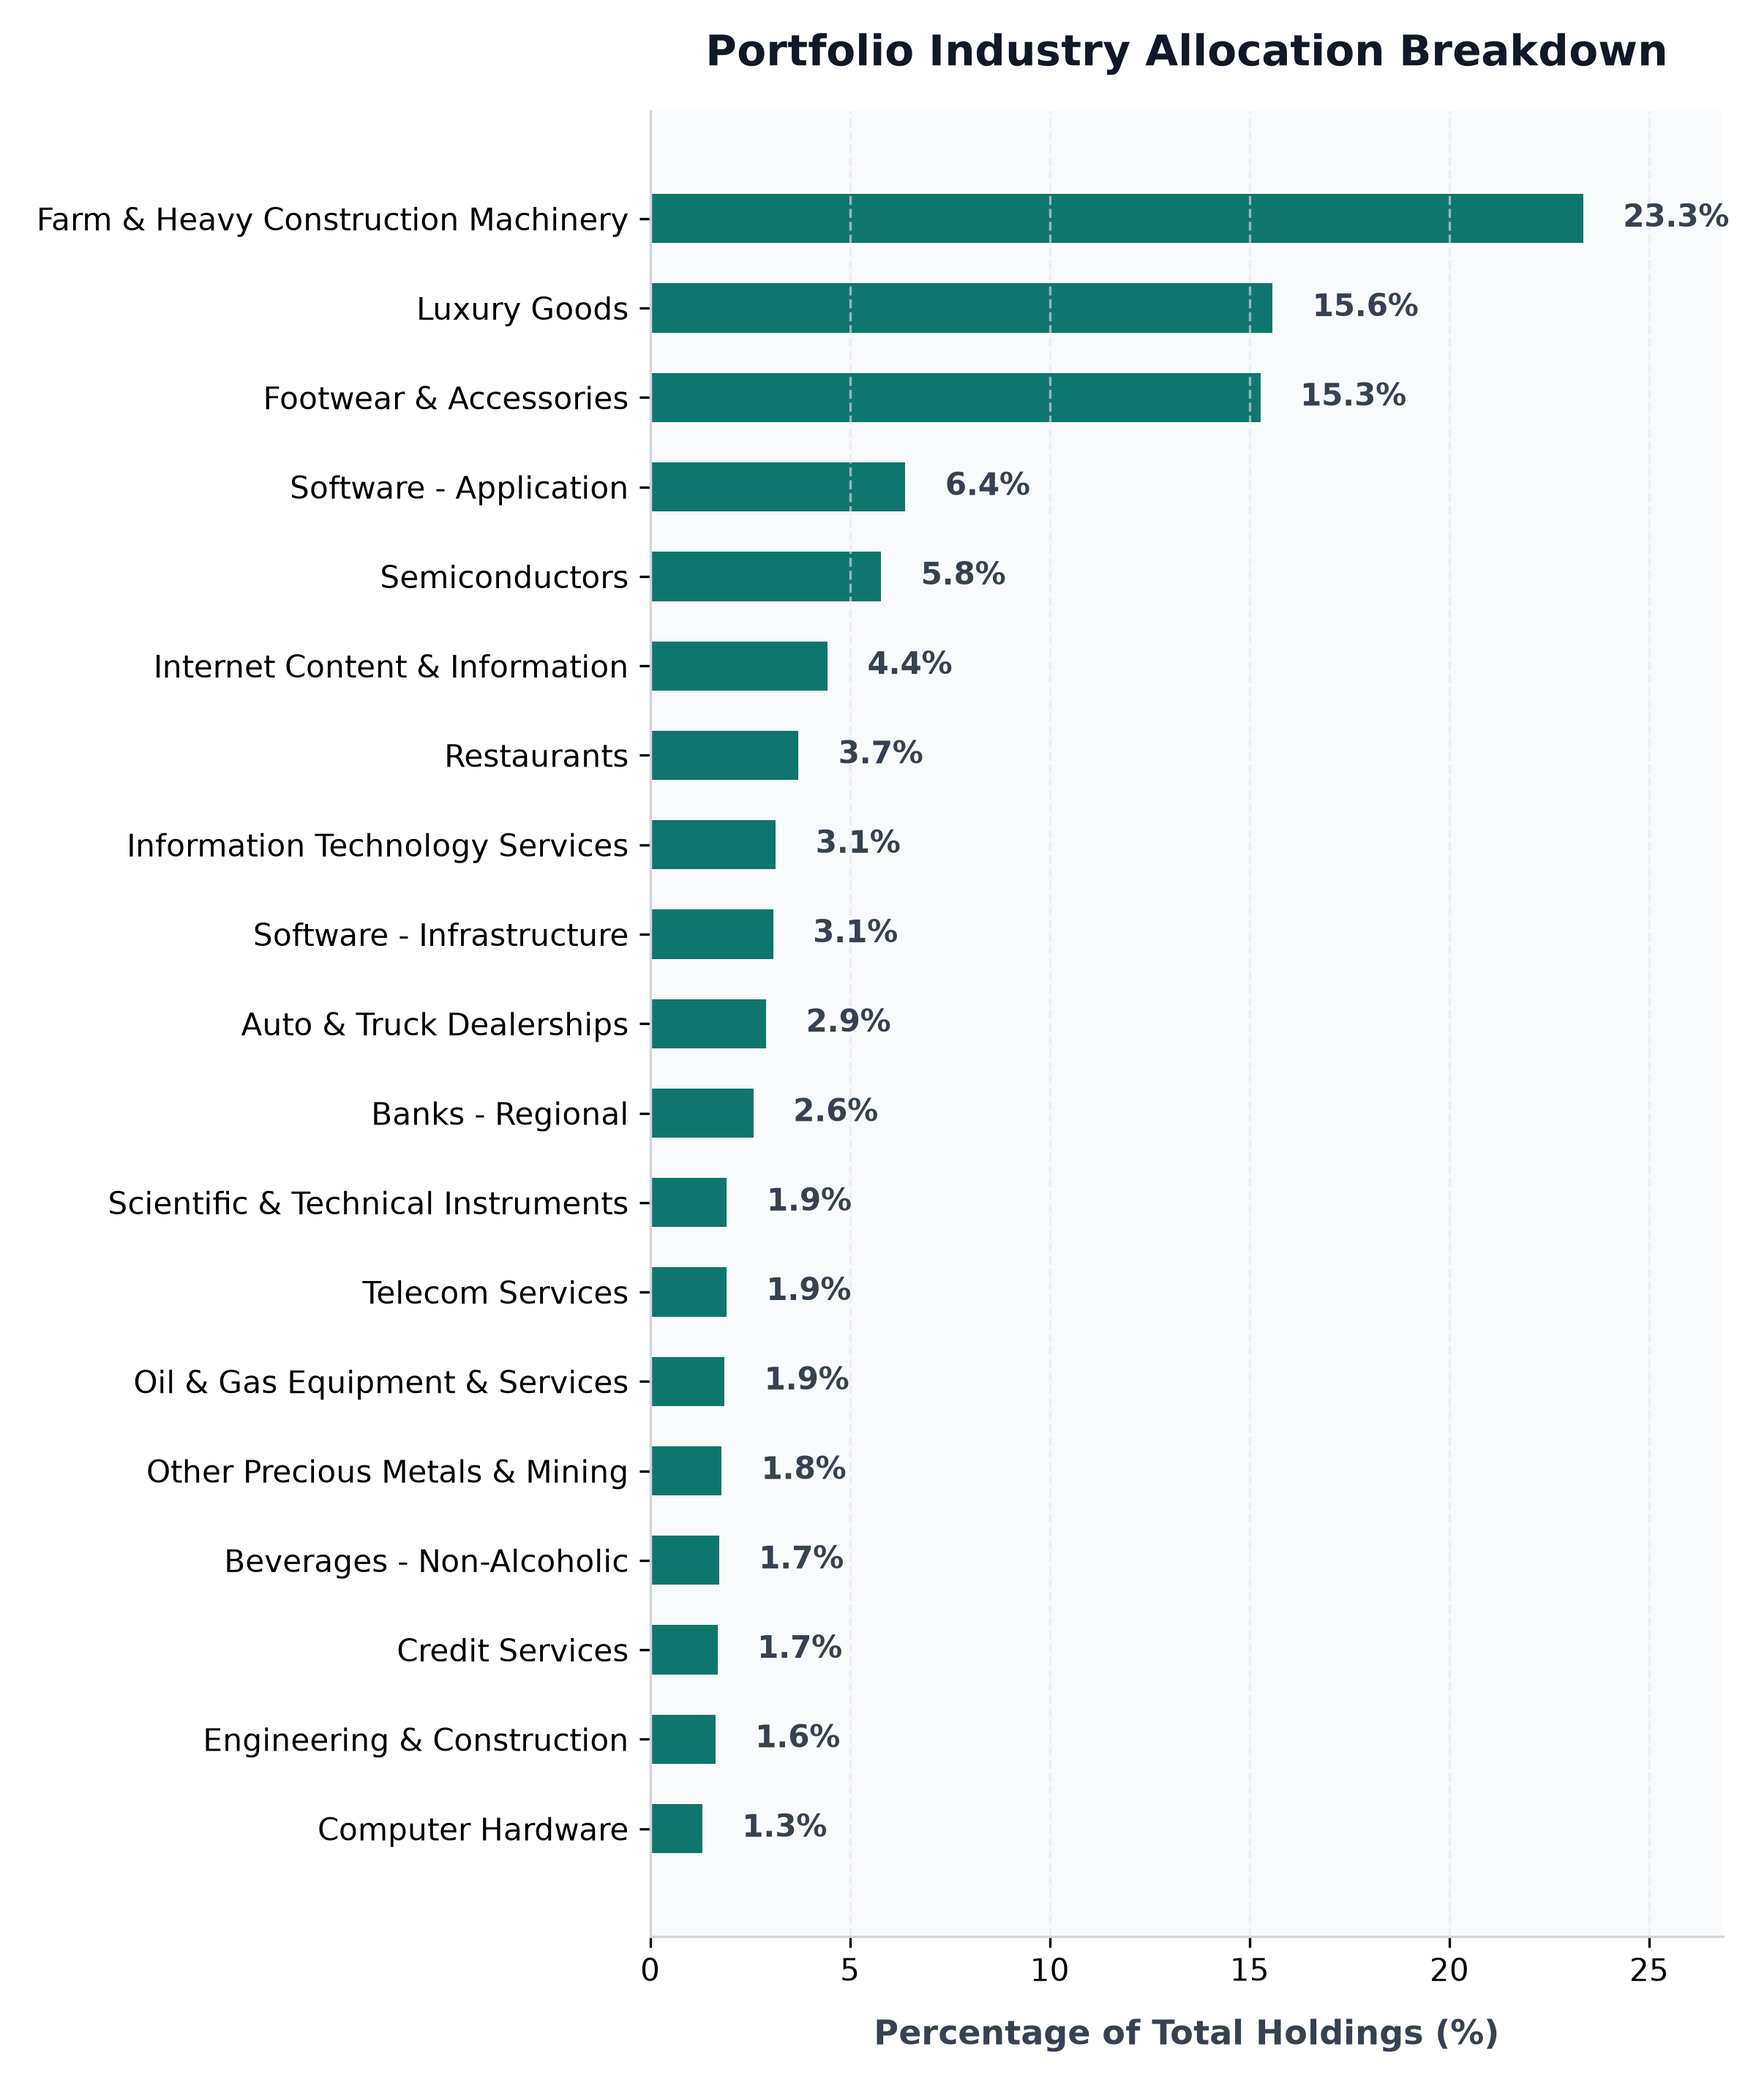
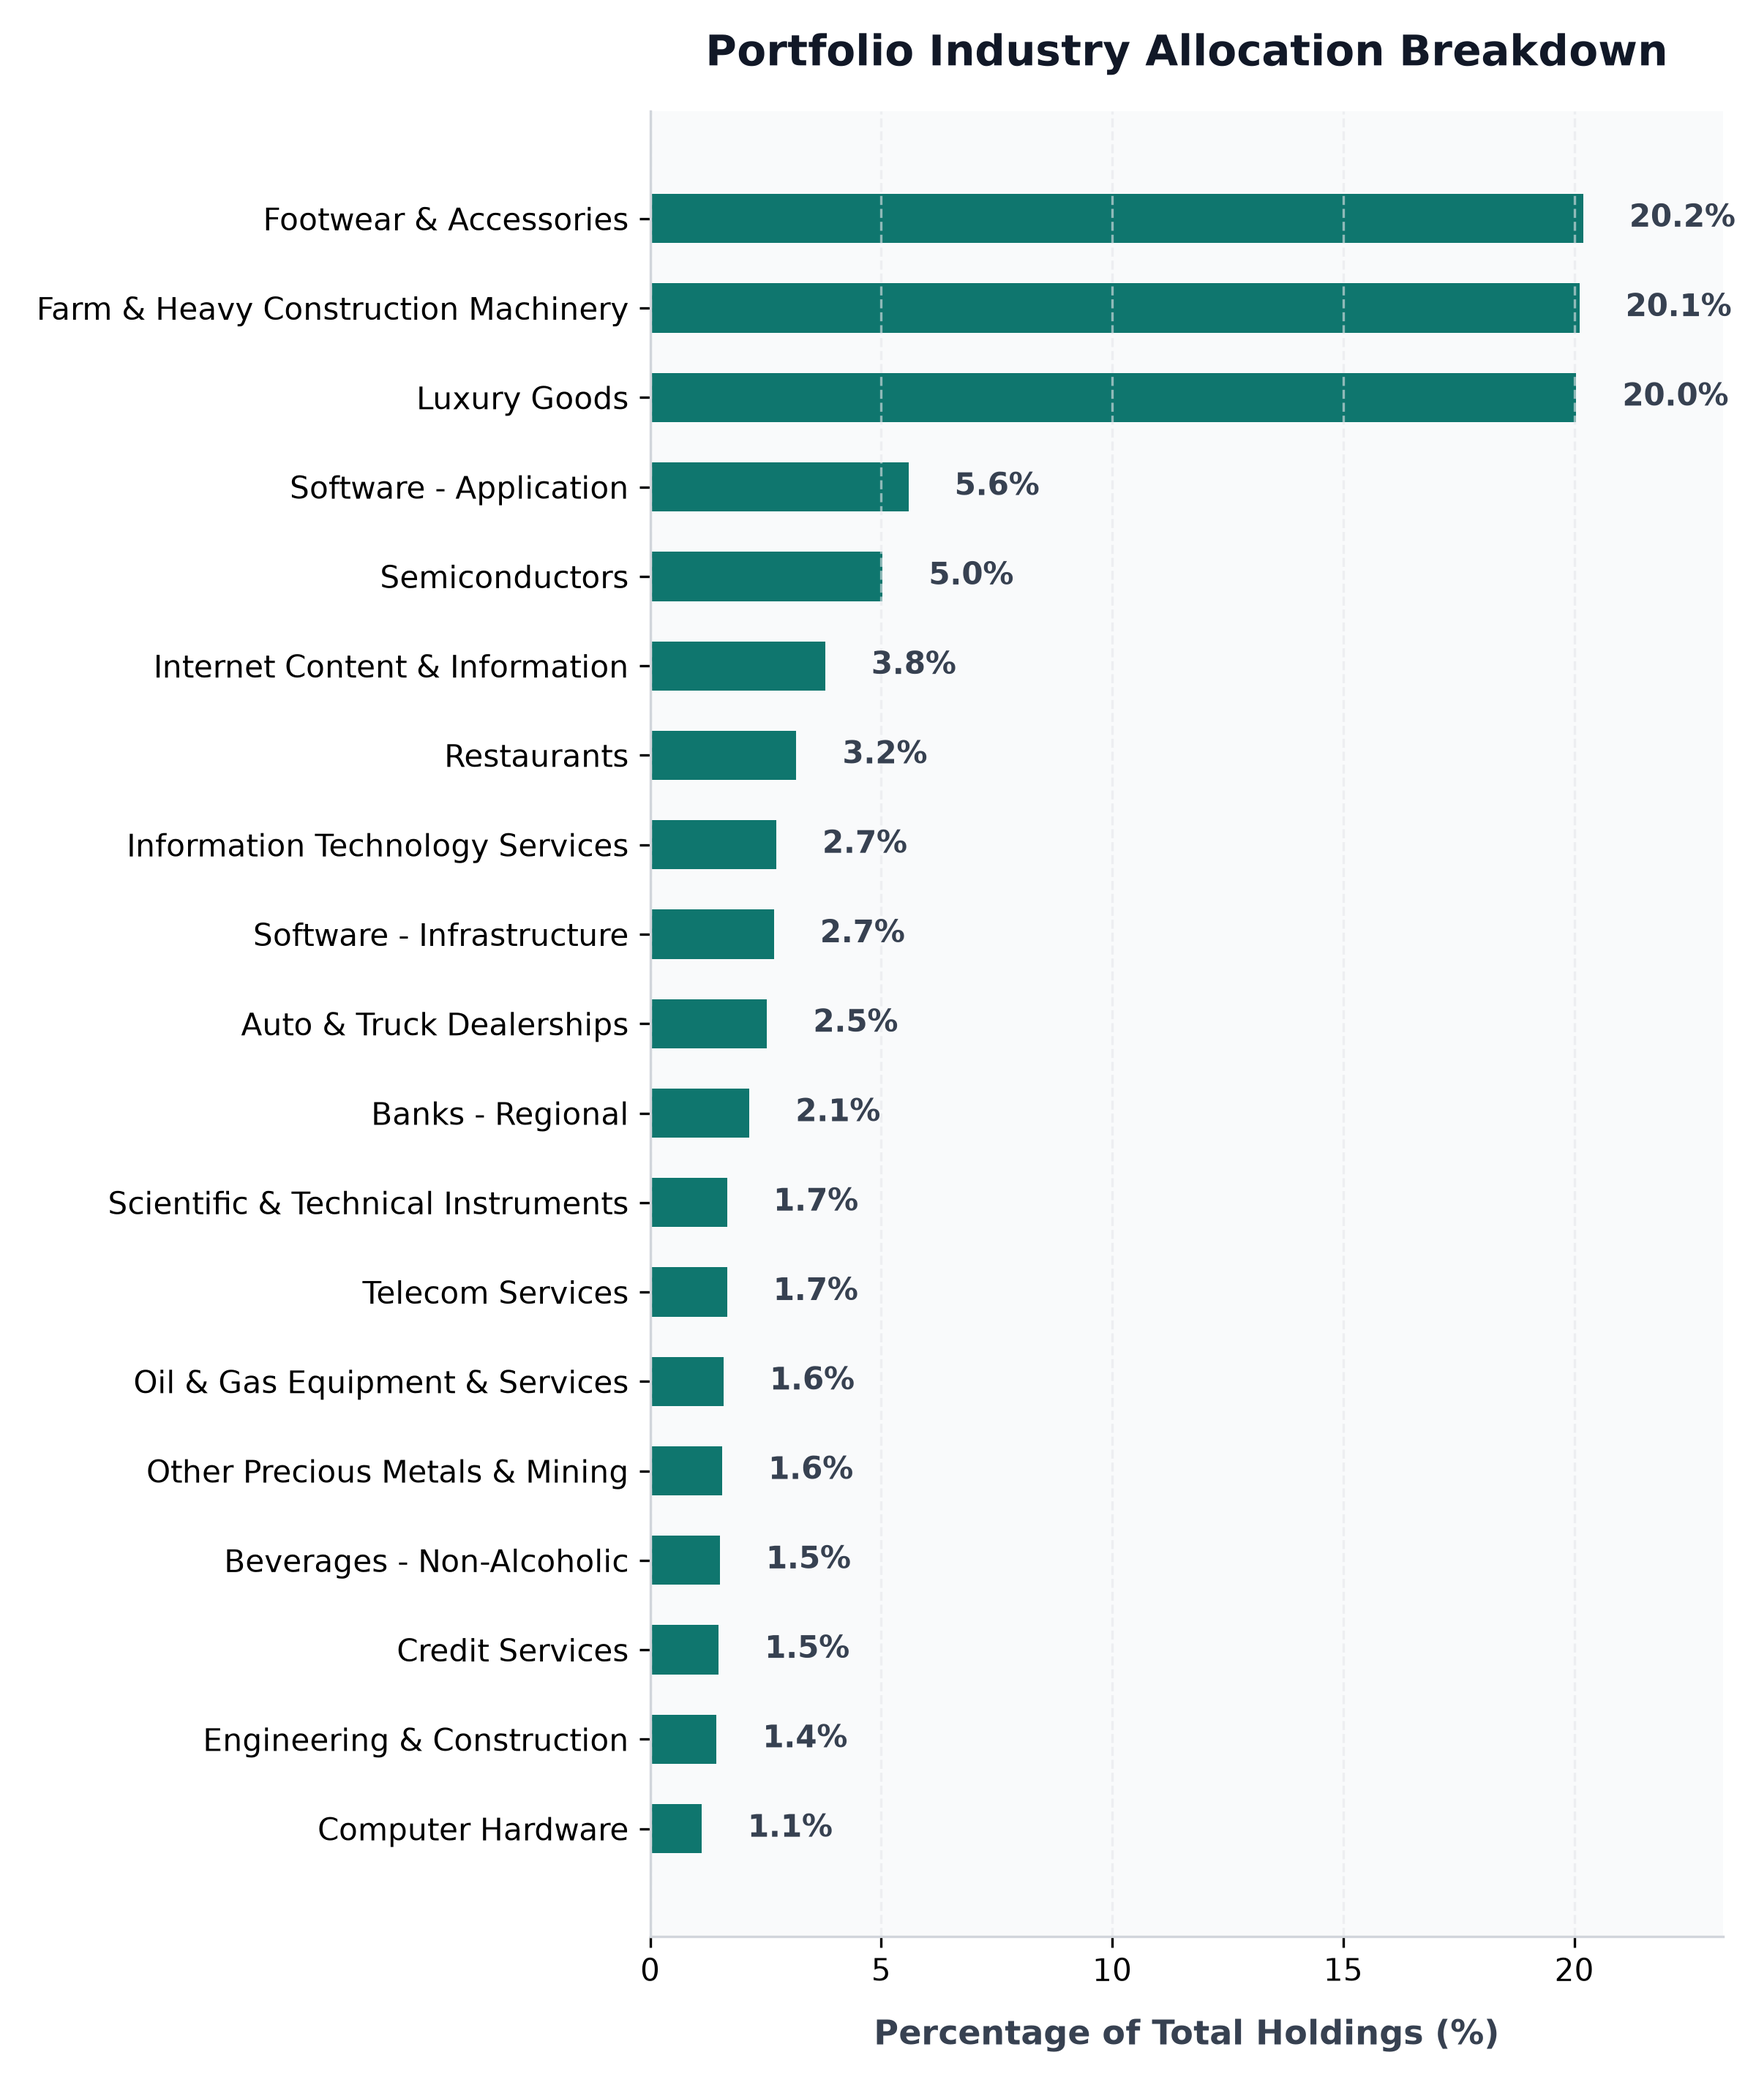
auto: daily portfolio status update - 2026-08-21 00:02:33

diff --git a/src/content/posts/portfolio-performance.md b/src/content/posts/portfolio-performance.md
@@ -1,6 +1,6 @@
 ---
 title: "BadOmen Algorithmic Portfolio Performance & PnL Report"
-pubDatetime: 2026-08-20T06:05:27.539888+08:00
+pubDatetime: 2026-08-21T00:02:21.391521+08:00
 description: "Live performance metrics, active holdings, and historic equity curve for the BadOmen automated paper trading portfolio."
 featured: true
 draft: false
@@ -16,11 +16,11 @@ Welcome to the live performance dashboard for **BadOmen**, our automated algorit
 ## 📊 Portfolio Summary
 | Performance Metric | Value | description |
 | :--- | :--- | :--- |
-| **Net Portfolio Equity** | **$100,473.59** | Total current liquidation value of cash and stock holdings |
-| **Total Unrealized P&L** | 🔴 **$-405.17** (-0.40%) | Total return of current open holdings |
-| **Cash Balance** | $38,616.21 | Idle reserve currency available for limit orders |
-| **Buying Power** | $317,355.68 | Margin-backed buying power for entry allocations |
-| **Report Updated** | `2026-08-20 06:05:27 (SGT)` | Timestamp of daily execution and sync run |
+| **Net Portfolio Equity** | **$99,305.66** | Total current liquidation value of cash and stock holdings |
+| **Total Unrealized P&L** | 🔴 **$-1,572.14** (-1.56%) | Total return of current open holdings |
+| **Cash Balance** | $28,313.71 | Idle reserve currency available for limit orders |
+| **Buying Power** | $312,032.30 | Margin-backed buying power for entry allocations |
+| **Report Updated** | `2026-08-21 00:02:21 (SGT)` | Timestamp of daily execution and sync run |
 
 ## 📈 Net Equity Growth Curve
 The chart below illustrates the historical performance of the account starting from our baseline capital funding of $100,000.00.
@@ -35,35 +35,35 @@ The chart below illustrates the exposure of our currently held active positions 
 ## 💼 Current Position Holdings
 | Ticker | Industry | Shares Owned | Average Entry Cost | Current Price | Unrealized P&L | Return (%) |
 | :--- | :--- | :--- | :--- | :--- | :--- | :--- |
-| **AN** | Auto & Truck Dealerships | 5 | $188.51 | $200.50 | 🟢 +$59.96 | +6.36% |
-| **AVGO** | Semiconductors | 1 | $385.71 | $365.01 | 🔴 $-20.70 | -5.37% |
-| **BIRK** | Footwear & Accessories | 261 | $38.41 | $36.19 | 🔴 $-580.16 | -5.79% |
-| **BLBD** | Farm & Heavy Construction Machinery | 231 | $65.52 | $62.52 | 🔴 $-692.07 | -4.57% |
-| **BVN** | Other Precious Metals & Mining | 32 | $31.88 | $34.46 | 🟢 +$82.79 | +8.12% |
-| **CELH** | Beverages - Non-Alcoholic | 33 | $29.71 | $32.25 | 🟢 +$83.73 | +8.54% |
-| **CPRI** | Luxury Goods | 669 | $14.98 | $14.40 | 🔴 $-389.44 | -3.89% |
-| **DUOL** | Software - Application | 14 | $131.04 | $144.97 | 🟢 +$194.89 | +10.62% |
-| **FIS** | Information Technology Services | 23 | $41.79 | $40.93 | 🔴 $-19.73 | -2.05% |
-| **GDDY** | Software - Infrastructure | 6 | $76.21 | $96.84 | 🟢 +$123.78 | +27.07% |
-| **GDS** | Information Technology Services | 30 | $32.77 | $33.40 | 🟢 +$18.90 | +1.92% |
-| **GGAL** | Banks - Regional | 17 | $56.04 | $44.94 | 🔴 $-188.69 | -19.81% |
-| **GOOGL** | Internet Content & Information | 3 | $319.44 | $344.51 | 🟢 +$75.21 | +7.85% |
-| **GPI** | Auto & Truck Dealerships | 3 | $316.15 | $263.87 | 🔴 $-156.84 | -16.54% |
-| **HUBS** | Software - Application | 8 | $221.18 | $240.00 | 🟢 +$150.55 | +8.51% |
-| **ITRI** | Scientific & Technical Instruments | 12 | $81.80 | $98.86 | 🟢 +$204.72 | +20.86% |
-| **KBR** | Engineering & Construction | 27 | $36.23 | $37.37 | 🟢 +$30.70 | +3.14% |
-| **META** | Internet Content & Information | 1 | $568.17 | $548.73 | 🔴 $-19.44 | -3.42% |
-| **NESR** | Oil & Gas Equipment & Services | 34 | $28.74 | $33.80 | 🟢 +$172.04 | +17.61% |
-| **NU** | Banks - Regional | 57 | $11.60 | $14.61 | 🟢 +$171.65 | +25.96% |
-| **ON** | Semiconductors | 10 | $90.45 | $77.00 | 🔴 $-134.55 | -14.88% |
-| **ORCL** | Software - Infrastructure | 5 | $181.95 | $144.20 | 🔴 $-188.75 | -20.75% |
-| **PATH** | Software - Infrastructure | 38 | $10.25 | $15.80 | 🟢 +$210.75 | +54.11% |
-| **PYPL** | Credit Services | 17 | $56.05 | $61.25 | 🟢 +$88.40 | +9.28% |
-| **QCOM** | Semiconductors | 15 | $193.68 | $162.50 | 🔴 $-467.77 | -16.10% |
-| **SMCI** | Computer Hardware | 22 | $29.25 | $36.64 | 🟢 +$162.68 | +25.28% |
-| **T** | Telecom Services | 47 | $20.85 | $25.10 | 🟢 +$199.79 | +20.39% |
-| **WEN** | Restaurants | 257 | $8.02 | $8.93 | 🟢 +$231.88 | +11.24% |
-| **ZG** | Internet Content & Information | 31 | $31.35 | $37.50 | 🟢 +$190.55 | +19.61% |
+| **AN** | Auto & Truck Dealerships | 5 | $188.51 | $200.12 | 🟢 +$58.06 | +6.16% |
+| **AVGO** | Semiconductors | 1 | $385.71 | $363.89 | 🔴 $-21.82 | -5.66% |
+| **BIRK** | Footwear & Accessories | 407 | $37.32 | $35.22 | 🔴 $-853.77 | -5.62% |
+| **BLBD** | Farm & Heavy Construction Machinery | 231 | $65.52 | $61.80 | 🔴 $-858.39 | -5.67% |
+| **BVN** | Other Precious Metals & Mining | 32 | $31.88 | $34.57 | 🟢 +$86.24 | +8.46% |
+| **CELH** | Beverages - Non-Alcoholic | 33 | $29.71 | $32.43 | 🟢 +$89.67 | +9.14% |
+| **CPRI** | Luxury Goods | 1042 | $14.55 | $13.65 | 🔴 $-934.47 | -6.16% |
+| **DUOL** | Software - Application | 14 | $131.04 | $146.14 | 🟢 +$211.34 | +11.52% |
+| **FIS** | Information Technology Services | 23 | $41.79 | $40.82 | 🔴 $-22.31 | -2.32% |
+| **GDDY** | Software - Infrastructure | 6 | $76.21 | $98.49 | 🟢 +$133.68 | +29.23% |
+| **GDS** | Information Technology Services | 30 | $32.77 | $33.24 | 🟢 +$14.10 | +1.43% |
+| **GGAL** | Banks - Regional | 17 | $56.04 | $42.12 | 🔴 $-236.72 | -24.85% |
+| **GOOGL** | Internet Content & Information | 3 | $319.44 | $339.48 | 🟢 +$60.12 | +6.27% |
+| **GPI** | Auto & Truck Dealerships | 3 | $316.15 | $264.78 | 🔴 $-154.11 | -16.25% |
+| **HUBS** | Software - Application | 8 | $221.18 | $240.22 | 🟢 +$152.31 | +8.61% |
+| **ITRI** | Scientific & Technical Instruments | 12 | $81.80 | $98.72 | 🟢 +$203.04 | +20.69% |
+| **KBR** | Engineering & Construction | 27 | $36.23 | $37.73 | 🟢 +$40.28 | +4.12% |
+| **META** | Internet Content & Information | 1 | $568.17 | $541.88 | 🔴 $-26.29 | -4.63% |
+| **NESR** | Oil & Gas Equipment & Services | 34 | $28.74 | $33.15 | 🟢 +$149.94 | +15.34% |
+| **NU** | Banks - Regional | 57 | $11.60 | $14.17 | 🟢 +$146.58 | +22.17% |
+| **ON** | Semiconductors | 10 | $90.45 | $75.30 | 🔴 $-151.55 | -16.75% |
+| **ORCL** | Software - Infrastructure | 5 | $181.95 | $141.61 | 🔴 $-201.70 | -22.17% |
+| **PATH** | Software - Infrastructure | 38 | $10.25 | $15.84 | 🟢 +$212.23 | +54.49% |
+| **PYPL** | Credit Services | 17 | $56.05 | $61.78 | 🟢 +$97.50 | +10.23% |
+| **QCOM** | Semiconductors | 15 | $193.68 | $163.58 | 🔴 $-451.57 | -15.54% |
+| **SMCI** | Computer Hardware | 22 | $29.25 | $35.88 | 🟢 +$145.75 | +22.65% |
+| **T** | Telecom Services | 47 | $20.85 | $25.14 | 🟢 +$201.40 | +20.55% |
+| **WEN** | Restaurants | 257 | $8.02 | $8.73 | 🟢 +$182.80 | +8.87% |
+| **ZG** | Internet Content & Information | 31 | $31.35 | $36.37 | 🟢 +$155.52 | +16.00% |
 
 ## 🔴 Recent Realized Trades
 | Ticker | Shares Sold | Entry Price | Exit Price | Strategy Trigger | Realized Return | Exit Date |
